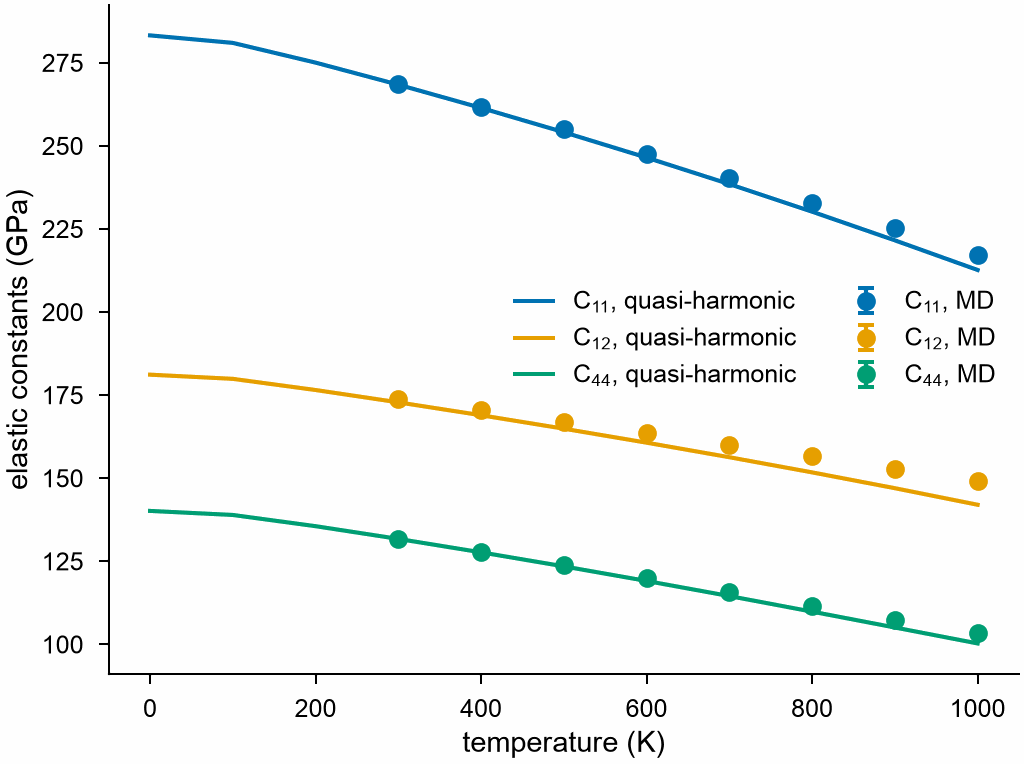
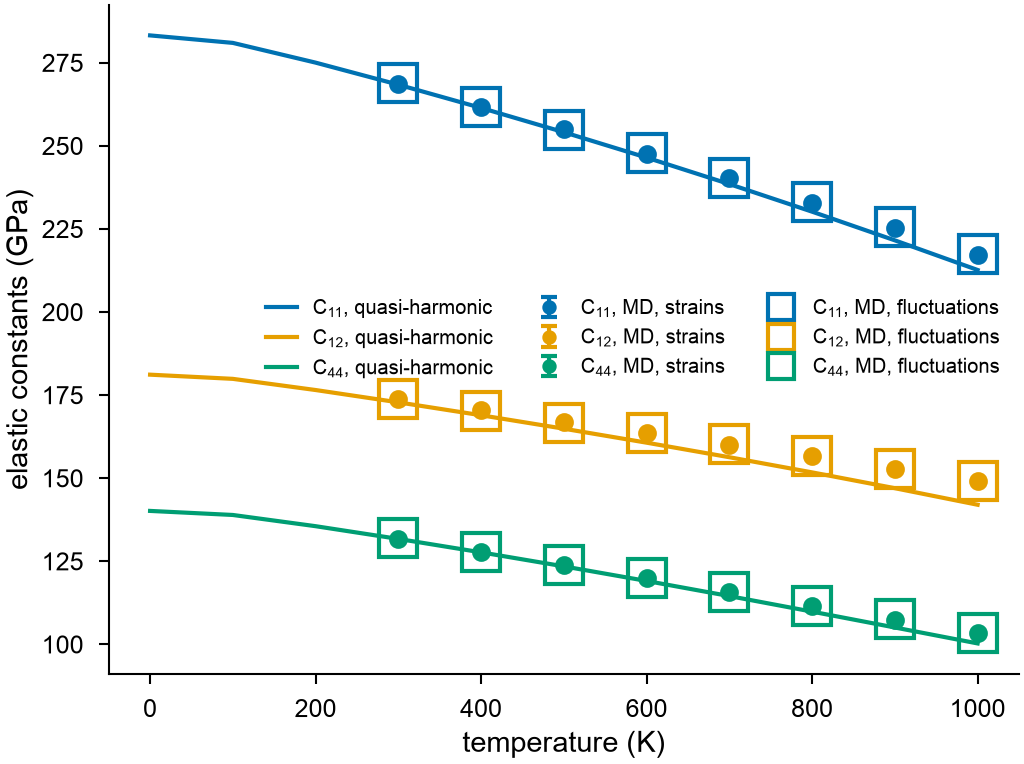
The figure of CrCoNi with the fluctuations, its legend one constant per row

diff --git a/docs/examples/crconi.md b/docs/examples/crconi.md
@@ -341,15 +341,20 @@ spread = np.array([cubic(result.errors) for result in md])
 fluctuation = np.array([cubic(result.constants) for result in fluctuating])
 with plot.style():
     fig, ax = plot.figure("single")
+    columns = [[], [], []]  # of the legend: each row one constant
     for k, name in enumerate(("C$_{11}$", "C$_{12}$", "C$_{44}$")):
         (line,) = ax.plot(temperatures, quasi[:, k], label=f"{name}, quasi-harmonic")
-        ax.errorbar(hot, dynamic[:, k], spread[:, k], fmt="o", color=line.get_color(),
-                    capsize=2, label=f"{name}, MD, strains")  # fmt: skip
-        ax.plot(hot, fluctuation[:, k], "s", ms=9, mfc="none", color=line.get_color(),
-                label=f"{name}, MD, fluctuations")  # fmt: skip
+        bars = ax.errorbar(hot, dynamic[:, k], spread[:, k], fmt="o",
+                           color=line.get_color(), capsize=2,
+                           label=f"{name}, MD, strains")  # fmt: skip
+        (boxes,) = ax.plot(hot, fluctuation[:, k], "s", ms=9, mfc="none",
+                           color=line.get_color(),
+                           label=f"{name}, MD, fluctuations")  # fmt: skip
+        for column, handle in zip(columns, (line, bars, boxes)):
+            column.append(handle)
     ax.set_xlabel("temperature (K)")
     ax.set_ylabel("elastic constants (GPa)")
-    ax.legend(ncol=3, fontsize="x-small")
+    ax.legend(handles=sum(columns, []), ncol=3, fontsize="x-small", markerscale=0.7)
     plot.save(fig, "images/crconi-md", formats=("png",))
 ```
 
